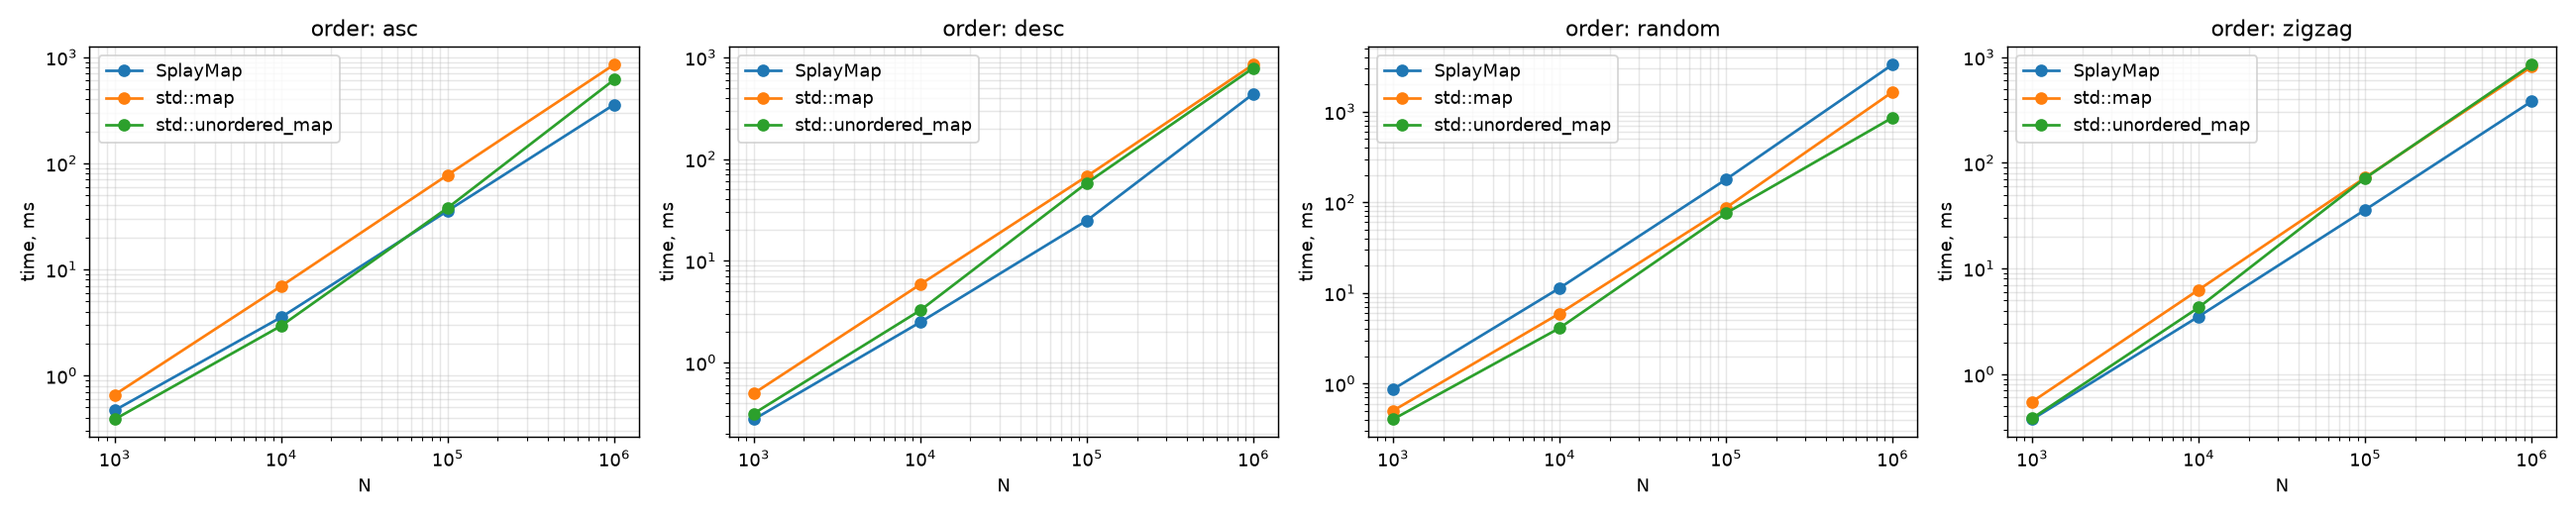
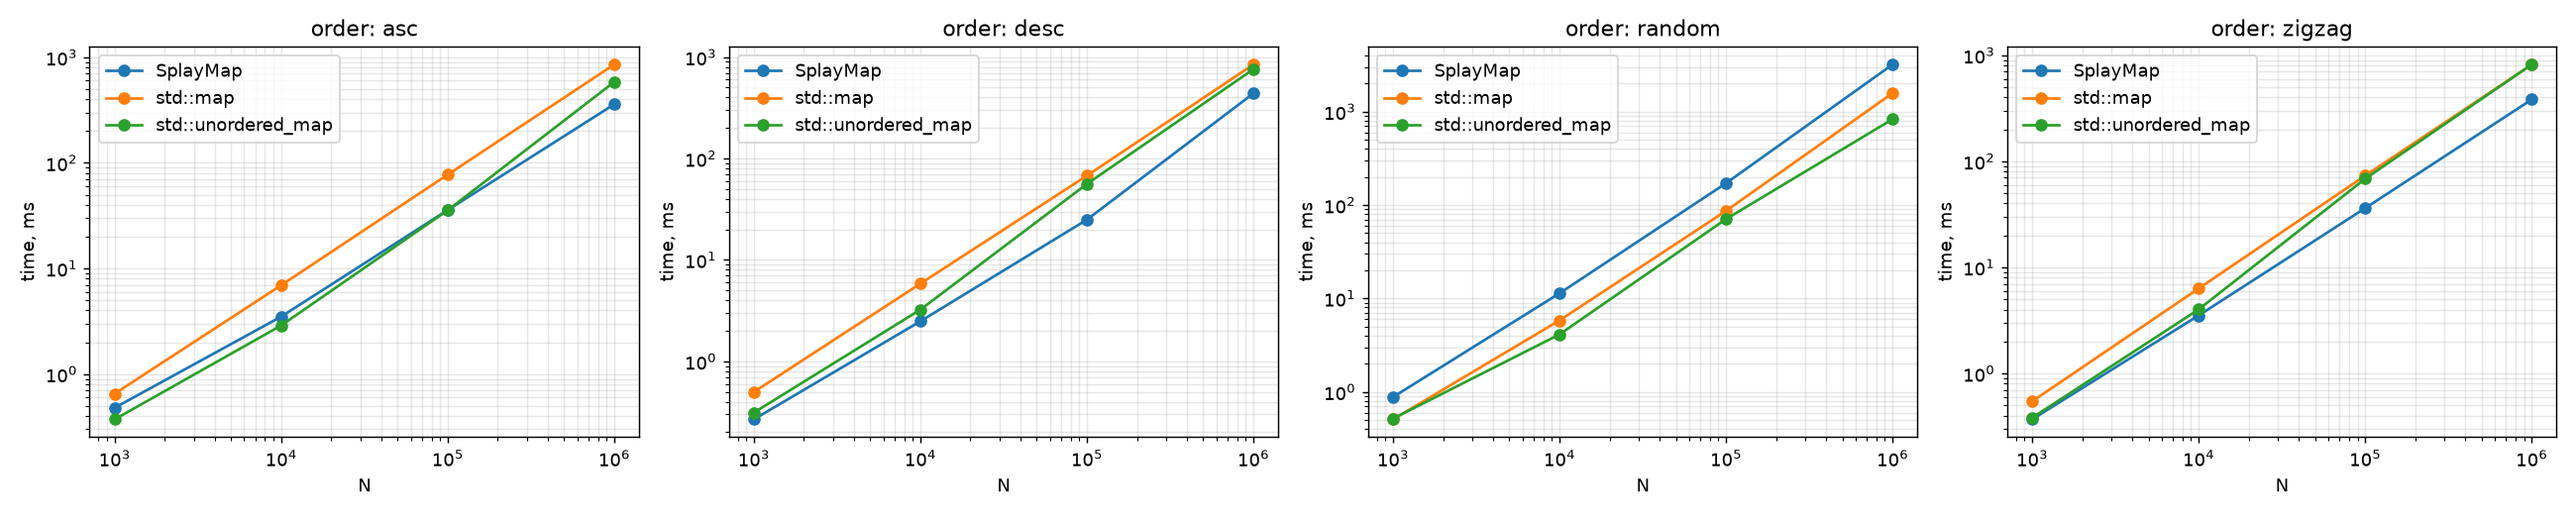
Lab 5, Try 2

diff --git a/LibraryCPPTemplate/Tests/associative_array.cpp b/LibraryCPPTemplate/Tests/associative_array.cpp
@@ -1,3 +1,4 @@
+#undef NDEBUG
 #include <cassert>
 #include <iostream>
 #include <string>
@@ -36,9 +37,11 @@ static void testLoad(size_t count) {
         map.insert(std::to_string(i), std::to_string(i));
     }
     assert(map.size() == count);
-    for (size_t i = 0; i < count; i += 100) {
+
+    for (size_t i = 0; i < count; ++i) {
         assert(map.find(std::to_string(i)) != nullptr);
     }
+
     map.clear();
     assert(map.empty());
     std::cout << "Load test passed for size: " << count << "\n";
